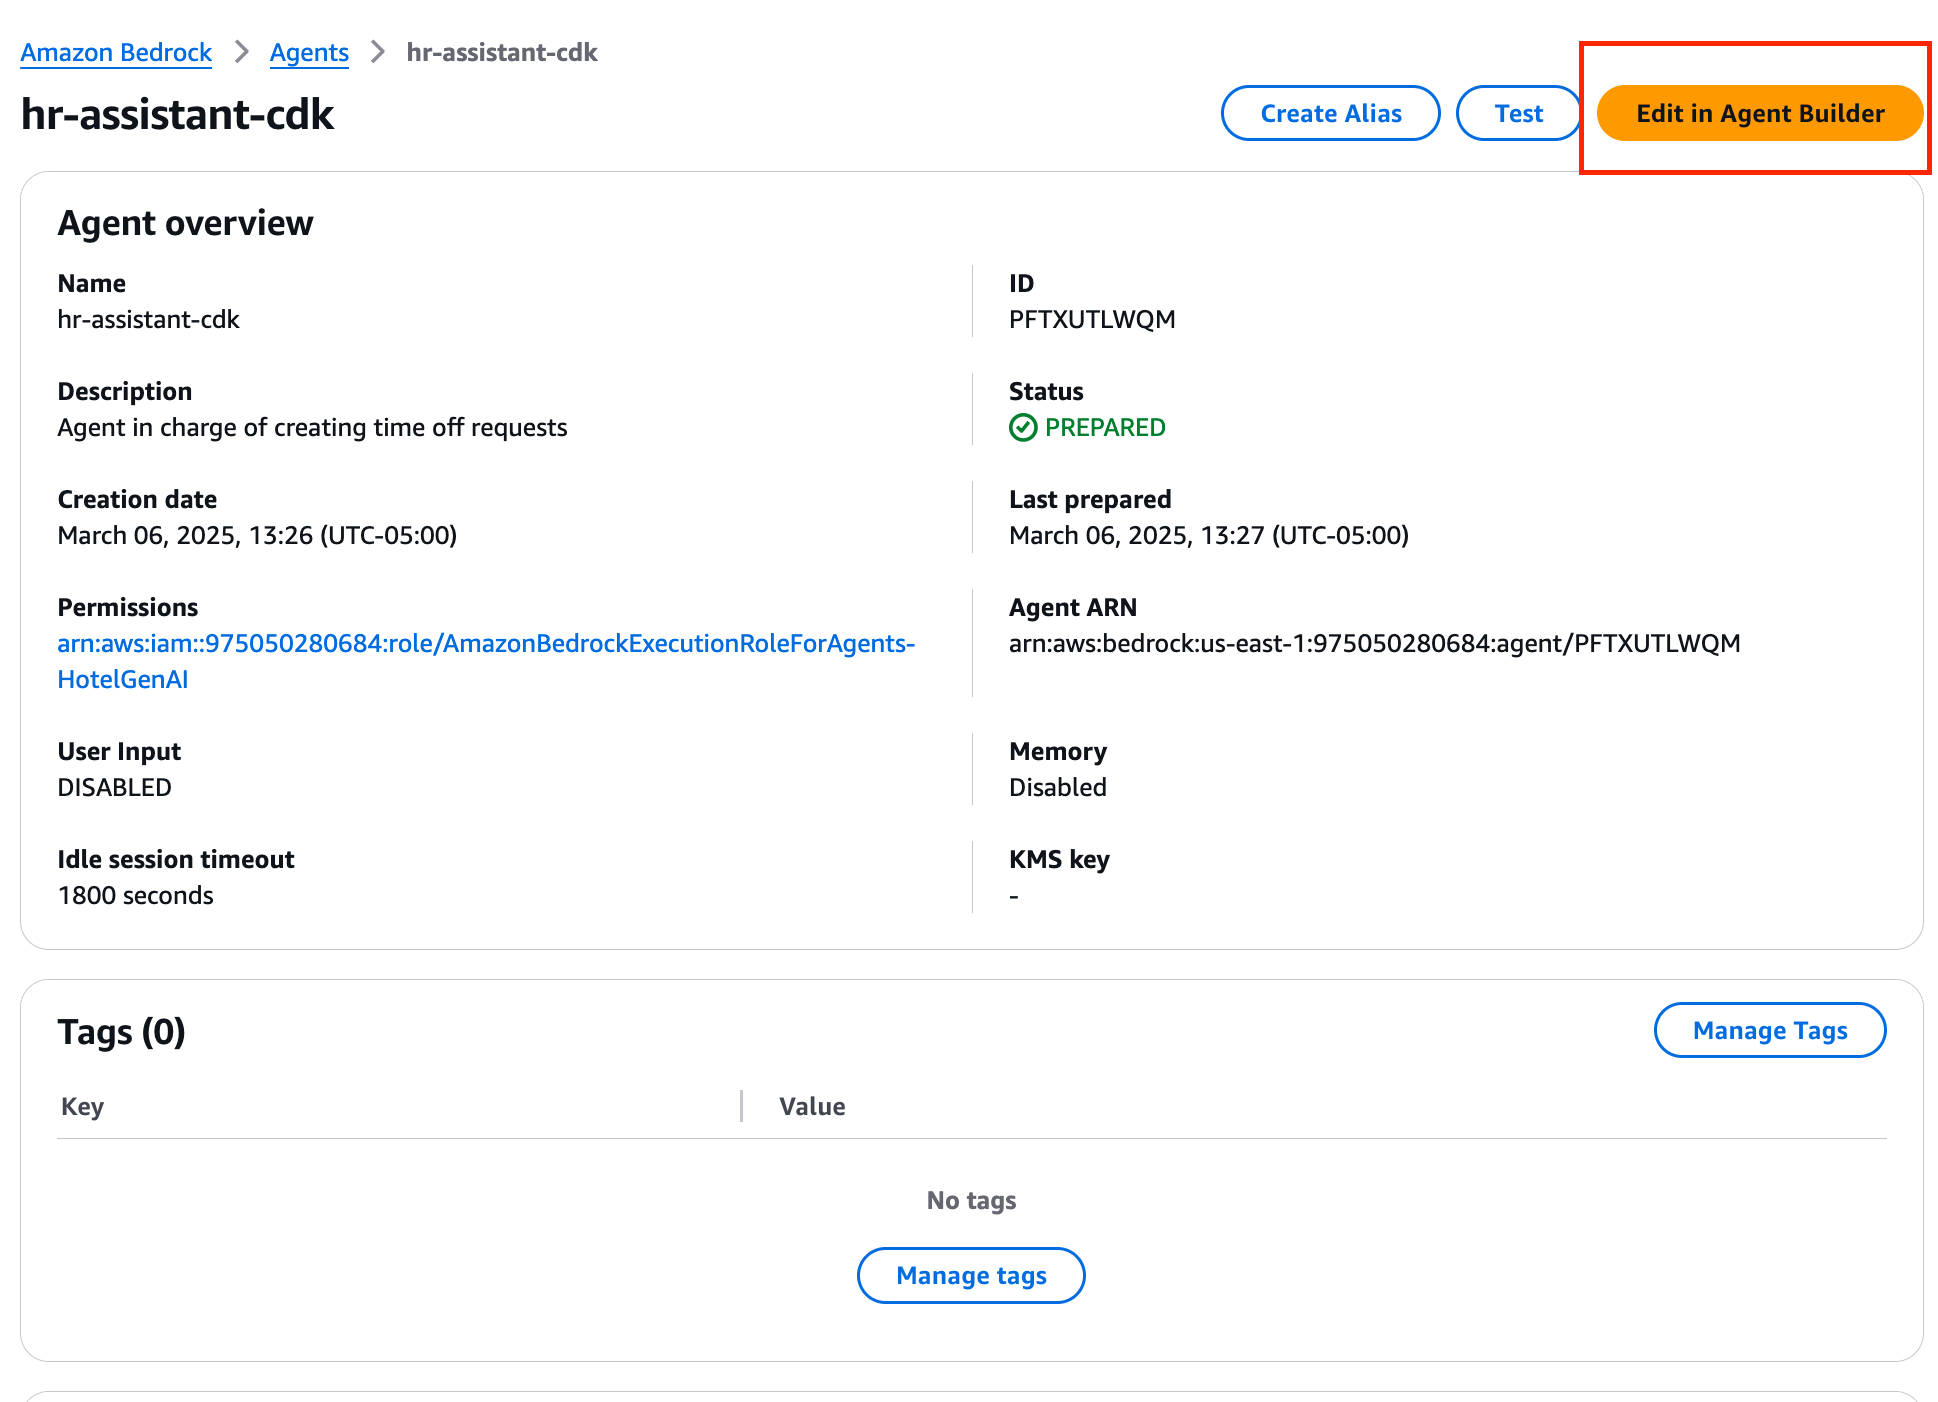
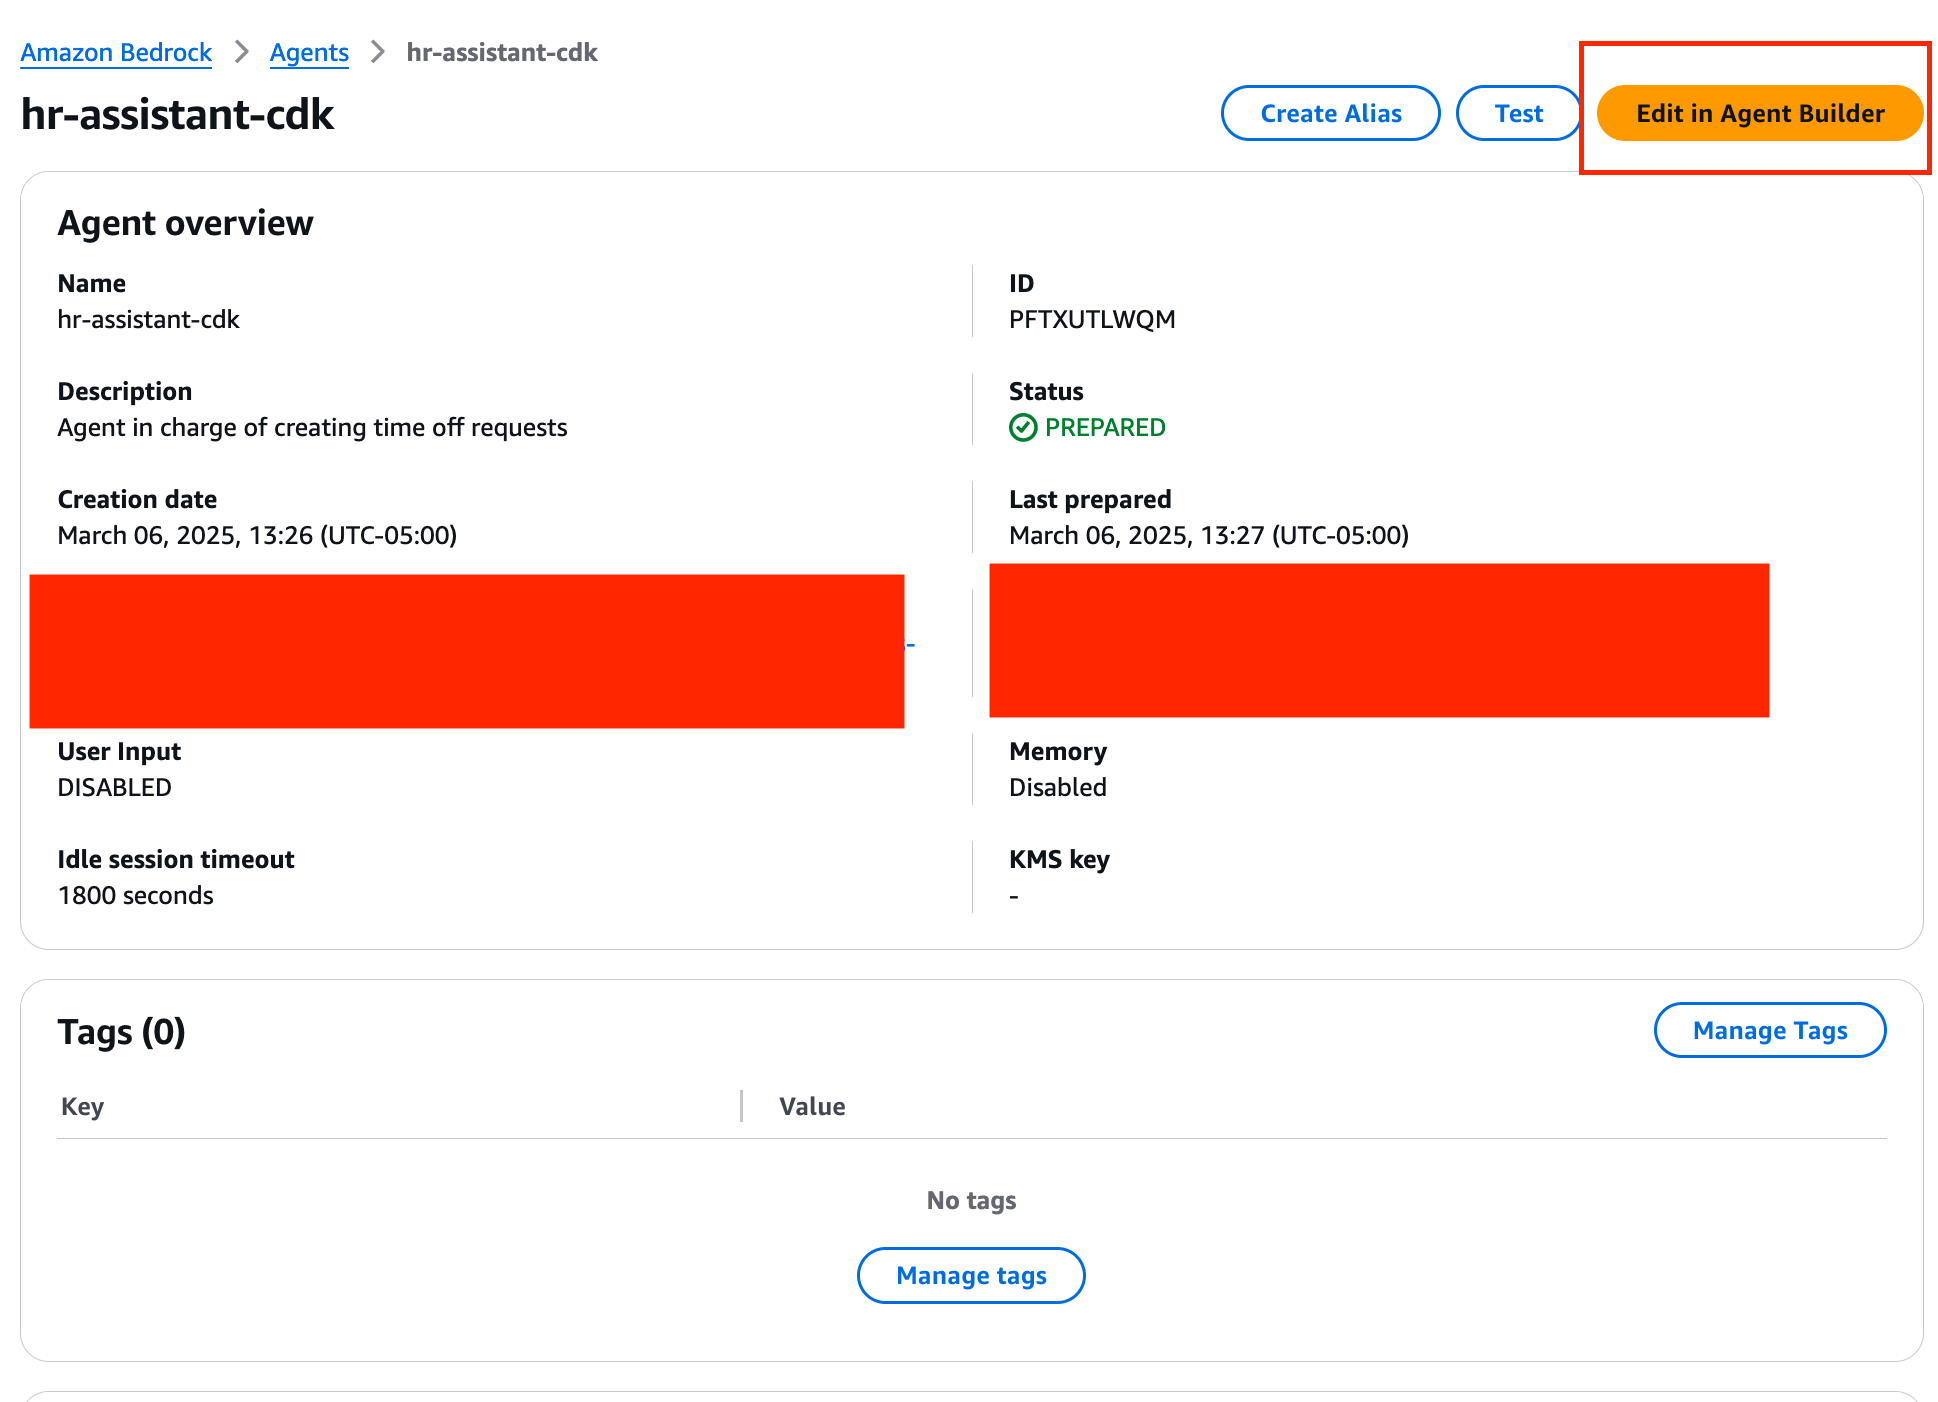
PR comments for readme, update lambda function to remove magic number, mask accountIDs in images, add cdk log group

Changed region(s): [[0.0, 0.3987, 0.4644, 0.5214], [0.4954, 0.3987, 0.9288, 0.5214]]

diff --git a/examples/agents/human_in_the_loop/cdk/BedrockAgentStack/BedrockAgentStack_stack.py b/examples/agents/human_in_the_loop/cdk/BedrockAgentStack/BedrockAgentStack_stack.py
@@ -8,6 +8,7 @@ from aws_cdk import (
     aws_iam as iam,
     CfnOutput,
     aws_bedrock as bedrock,
+    aws_logs as logs
 )
 import json
 from constructs import Construct
@@ -54,6 +55,8 @@ class BedrockAgentStack(Stack):
             )
         )
 
+        log_group = logs.LogGroup(self, "BedrockActionGroup-HRAssistant", retention=logs.RetentionDays.ONE_WEEK)
+
         base_lambda_policy = iam.ManagedPolicy(
             self,
             "LambdaBasicExecutionPolicy",
@@ -67,7 +70,7 @@ class BedrockAgentStack(Stack):
                         "logs:PutLogEvents"
                     ],
                     resources=[
-                        f"arn:aws:logs:{self.region}:{self.account}:log-group:/aws/lambda/BedrockActionGroup-HRAssistant"
+                        log_group.log_group_arn
                     ]
                 )
             ]
@@ -75,7 +78,7 @@ class BedrockAgentStack(Stack):
 
         lambda_role = iam.Role(
             scope=self,
-            id="IndexCreatorLambdaRole",
+            id="HRAssistantLambdaRole",
             assumed_by=iam.ServicePrincipal("lambda.amazonaws.com"),
             managed_policies=[base_lambda_policy],
         )
@@ -90,6 +93,8 @@ class BedrockAgentStack(Stack):
             timeout=Duration.seconds(300),
             role=lambda_role,
             function_name="BedrockActionGroup-HRAssistant",
+            log_group=log_group,
+            log_format="JSON",
         )
 
         # Create the Agent
@@ -176,6 +181,17 @@ class BedrockAgentStack(Stack):
             function_name=action_group_function.function_name,
             principal="bedrock.amazonaws.com",
             source_arn=cfn_agent.attr_agent_arn,
+        )
+
+        NagSuppressions.add_resource_suppressions(
+            agent_role,
+            [
+                {
+                    "id": "AwsSolutions-IAM4",
+                    "reason": "This is a sample. For production use, reduce the permissions as needed."
+                }
+            ],
+            True,
         )
 
         # Agent is created with booking-agent-alias and prepared, so it shoudld be ready to test #

diff --git a/examples/agents/human_in_the_loop/backend/lambda.py b/examples/agents/human_in_the_loop/backend/lambda.py
@@ -96,18 +96,6 @@ def create_employee_time_off_request(event):
 
 
 def lambda_handler(event, context):
-    sessionAttributes = None
-    user_id = ""
-    if "sessionAttributes" in event and "user_id" in event["sessionAttributes"]:
-        sessionAttributes = event["sessionAttributes"]
-        print(f"Got session details: {sessionAttributes}")
-        user_id = sessionAttributes["user_id"]
-        print(f"Got user id: {user_id}")
-    else:
-        # Real app would likely throw error here. Swallowing so I can test agent in console.
-        user_id = 14
-    #    return create_error_response(event, 'Missing user ID', 500)
-
     promptAttributes = None
     if "promptAttributes" in event:
         print(f"Got prompt details: {promptAttributes}")

diff --git a/examples/agents/human_in_the_loop/cdk/app.py b/examples/agents/human_in_the_loop/cdk/app.py
@@ -2,12 +2,27 @@
 import os
 import json
 import aws_cdk as cdk
+# from cdk_nag import AwsSolutionsChecks, NagSuppressions
 
 from BedrockAgentStack.BedrockAgentStack_stack import BedrockAgentStack
 
 
 app = cdk.App()
 
-BedrockAgentStack(app, "BedrockAgentStack")
+stack = BedrockAgentStack(app, "BedrockAgentStack")
+# cdk.Aspects.of(app).add(AwsSolutionsChecks())
+# NagSuppressions.add_stack_suppressions(
+#     stack,
+#     [
+#         {
+#             "id": "AwsSolutions-IAM4",
+#             "reason": "The role is a requirement for Bedrock"
+#         },
+#         {
+#             "id": "AwsSolutions-IAM5",
+#             "reason": "The role is a requirement for Bedrock"
+#         },
+#     ],
+# )
 
 app.synth()

diff --git a/examples/agents/human_in_the_loop/README.md b/examples/agents/human_in_the_loop/README.md
@@ -1,7 +1,7 @@
 # Bedrock-HR-Assistant-ROC
 
 ## Purpose
-This repo provides a backend for showcasing the human_in_the_loop capabilities in Amazon Bedrock, specifically focusing on Return of Control (ROC) functionality. This repo is for demonstrative purposes only, and the application code is not meant for production use.
+This repo provides a backend for showcasing the human-in-the-loop capabilities in Amazon Bedrock, specifically focusing on Return of Control (ROC) functionality. This repo is for demonstrative purposes only, and the application code is not meant for production use.
 The implementation demonstrates how to build intelligent HR assistants that can handle time-off requests with varying levels of human oversight.
 This allows organizations to maintain appropriate control and verification of automated processes while leveraging AI capabilities.
 
